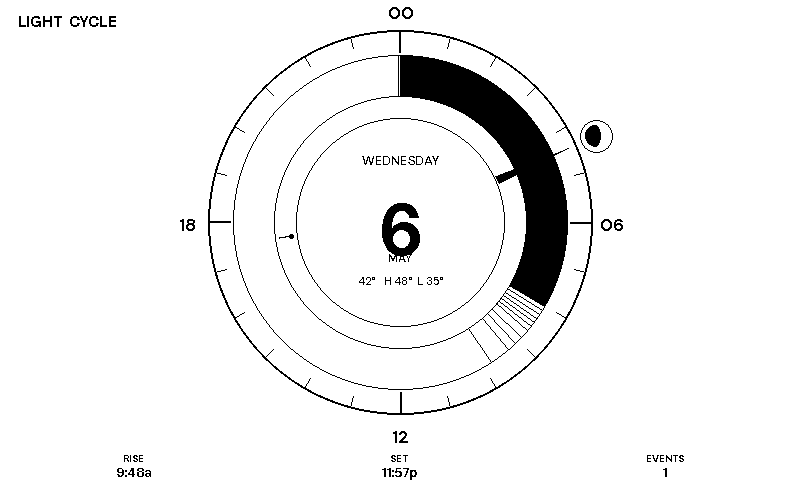
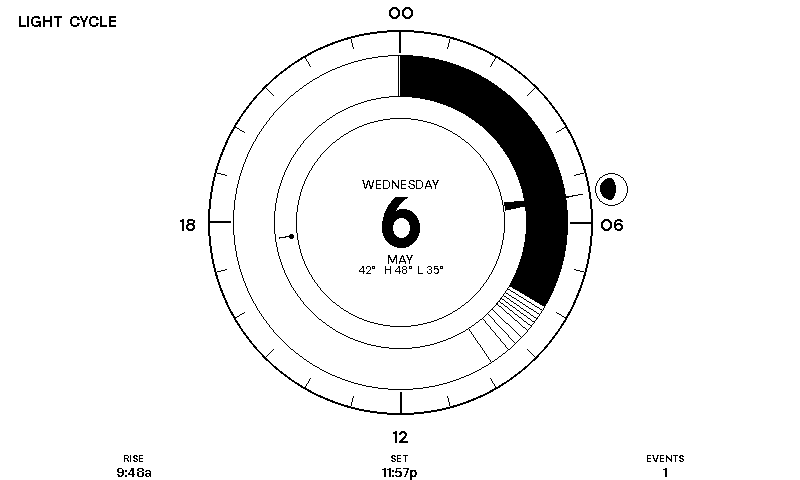
fix(themes): light_cycle date/month spacing + Righteous numeral; mypy ignore-list
Two issues addressed:

1. The big day-of-month numeral was overlapping the month label below
   it.  Root cause: positions were computed from approximate font
   metrics (text_height/text_width) which underestimate the rendered
   bbox for tall display digits like "6" at 70+ pt.  Rewrote
   _draw_center_disc to:

     * measure each line via draw.textbbox so descenders and overhangs
       are accounted for
     * stack DOW → date → month → weather around the date's true
       bbox, with an explicit 8 px gap that's guaranteed to clear
       the numeral on both sides

2. Hero numeral now uses Righteous (OFL display sans, already
   bundled) via font_date_number on the theme — heavier strokes than
   DM Sans Bold so the digit reads cleanly even on Spectra-6 Inky
   where the previous geometric sans got lost in the surrounding
   chrome.

Also extends the mypy [tool.mypy.overrides] ignore-list with
almanac_panel, constellation_map_panel, and light_cycle_panel.  These
new panels follow the same "style.font_bold(size)" pattern that the
existing components do — mypy can't see ThemeStyle.__post_init__'s
None-defence so it flags every call as "None not callable".  Adding
them to the existing override block clears 49 false positives and
restores green CI typecheck.

Snapshot baseline regenerated; only the light_cycle entry changed.
Previews regenerated and committed; docs typography table credits
Righteous on light_cycle.

diff --git a/src/render/components/light_cycle_panel.py b/src/render/components/light_cycle_panel.py
@@ -319,63 +319,69 @@ def _draw_center_disc(
     weather,
     style: ThemeStyle,
 ) -> None:
-    """Render day-of-week, big date numeral, month, and weather summary."""
+    """Render day-of-week, big date numeral, month, and weather summary.
+
+    The four lines are stacked using each line's actual textbbox height +
+    a fixed gap, anchored on the date numeral's centre.  This avoids the
+    classic "tall numeral overlaps the next line" trap that font-metric
+    approximations produce — the gaps below are guaranteed clear of the
+    numeral's descender.
+    """
     fg = style.fg
     bg = style.bg
     font_bold = style.font_bold
     font_medium = style.font_medium
     font_regular = style.font_regular
+    accent = style.primary_accent_fill()
 
     # Background disc — clear out anything from rings that bled inward.
-    draw.ellipse(_bbox(_INNER_DISC_R), fill=bg, outline=style.primary_accent_fill())
+    draw.ellipse(_bbox(_INNER_DISC_R), fill=bg, outline=accent)
 
-    # Day-of-week, top of disc
+    # --- Big date numeral, centred vertically on the disc ---
+    day_str = str(today.day)
+    day_font = (style.font_date_number or font_bold)(70)
+    day_bbox = draw.textbbox((0, 0), day_str, font=day_font)
+    day_w = day_bbox[2] - day_bbox[0]
+    day_h = day_bbox[3] - day_bbox[1]
+    day_x = _CENTER_X - day_w // 2 - day_bbox[0]
+    day_y = _CENTER_Y - day_h // 2 - day_bbox[1]
+    draw.text((day_x, day_y), day_str, font=day_font, fill=fg)
+
+    gap = 8  # vertical breathing room between disc lines
+    day_top = _CENTER_Y - day_h // 2
+    day_bottom = _CENTER_Y + day_h // 2
+
+    # --- Day-of-week label, sitting above the numeral ---
     dow = now.strftime("%A").upper()
     dow_font = font_medium(13)
-    dow_w = text_width(draw, dow, dow_font)
-    draw.text(
-        (_CENTER_X - dow_w // 2, _CENTER_Y - 70),
-        dow,
-        font=dow_font,
-        fill=style.primary_accent_fill(),
-    )
+    dow_bbox = draw.textbbox((0, 0), dow, font=dow_font)
+    dow_w = dow_bbox[2] - dow_bbox[0]
+    dow_h = dow_bbox[3] - dow_bbox[1]
+    dow_x = _CENTER_X - dow_w // 2 - dow_bbox[0]
+    dow_y = day_top - gap - dow_h - dow_bbox[1]
+    draw.text((dow_x, dow_y), dow, font=dow_font, fill=accent)
 
-    # Big date numeral, centred
-    day_str = str(today.day)
-    day_font = (style.font_date_number or font_bold)(72)
-    day_w = text_width(draw, day_str, day_font)
-    day_h = text_height(day_font)
-    draw.text(
-        (_CENTER_X - day_w // 2, _CENTER_Y - day_h // 2 - 6),
-        day_str,
-        font=day_font,
-        fill=fg,
-    )
-
-    # Month name below numeral
+    # --- Month label, sitting below the numeral ---
     month = today.strftime("%B").upper()
-    month_font = font_medium(12)
-    month_w = text_width(draw, month, month_font)
-    draw.text(
-        (_CENTER_X - month_w // 2, _CENTER_Y + 28),
-        month,
-        font=month_font,
-        fill=fg,
-    )
+    month_font = font_medium(13)
+    month_bbox = draw.textbbox((0, 0), month, font=month_font)
+    month_w = month_bbox[2] - month_bbox[0]
+    month_h = month_bbox[3] - month_bbox[1]
+    month_x = _CENTER_X - month_w // 2 - month_bbox[0]
+    month_y = day_bottom + gap - month_bbox[1]
+    draw.text((month_x, month_y), month, font=month_font, fill=fg)
 
-    # Weather summary at the bottom of the disc
+    # --- Weather summary, anchored just below the month line ---
     if weather is not None:
         temp_str = f"{weather.current_temp:.0f}°"
         if weather.high is not None and weather.low is not None:
             temp_str += f"   H {weather.high:.0f}°  L {weather.low:.0f}°"
         wx_font = font_regular(11)
-        wx_w = text_width(draw, temp_str, wx_font)
-        draw.text(
-            (_CENTER_X - wx_w // 2, _CENTER_Y + 52),
-            temp_str,
-            font=wx_font,
-            fill=fg,
-        )
+        wx_bbox = draw.textbbox((0, 0), temp_str, font=wx_font)
+        wx_w = wx_bbox[2] - wx_bbox[0]
+        wx_x = _CENTER_X - wx_w // 2 - wx_bbox[0]
+        wx_y = month_y + month_h + 6 - wx_bbox[1]
+        draw.text((wx_x, wx_y), temp_str, font=wx_font, fill=fg)
 
 
 # ---------------------------------------------------------------------------

diff --git a/src/render/themes/light_cycle.py b/src/render/themes/light_cycle.py
@@ -25,7 +25,7 @@ holds today's date and weather summary.
 
 from __future__ import annotations
 
-from src.render.fonts import dm_bold, dm_medium, dm_regular, dm_semibold
+from src.render.fonts import dm_bold, dm_medium, dm_regular, dm_semibold, righteous
 from src.render.theme import (
     INKY_BLUE,
     INKY_YELLOW,
@@ -62,6 +62,10 @@ def light_cycle_theme() -> Theme:
             font_bold=dm_bold,
             font_title=dm_bold,
             font_section_label=dm_bold,
+            # Righteous (OFL display sans) for the hero day-of-month numeral —
+            # heavier strokes than DM Sans Bold so the digit reads cleanly at
+            # 70+ pt against the inner disc.
+            font_date_number=righteous,
             label_font_size=11,
             label_font_weight="bold",
             accent_primary=INKY_YELLOW,

diff --git a/docs/themes.md b/docs/themes.md
@@ -416,6 +416,7 @@ Bundled font families used by the current built-in themes:
 | DM Sans | `minimalist`, `weather`, `fuzzyclock`, `timeline`, `diags`, `monthly`, `countdown`, `astronomy`, `light_cycle`, `constellation_map` (margin) |
 | Playfair Display | `old_fashioned`, `qotd`, `moonphase`, `almanac` |
 | Cinzel | `fantasy`, `old_fashioned`, `moonphase` accents, `almanac` (section labels + small caps) |
+| Righteous | `light_cycle` (centre date numeral) |
 | Audiowide | `constellation_map` (cardinal letters, star + constellation labels) |
 | Astloch | `almanac` (masthead + dateline character font) |
 | Space Grotesk | `air_quality`, `message`, `year_pulse`, `scorecard` |